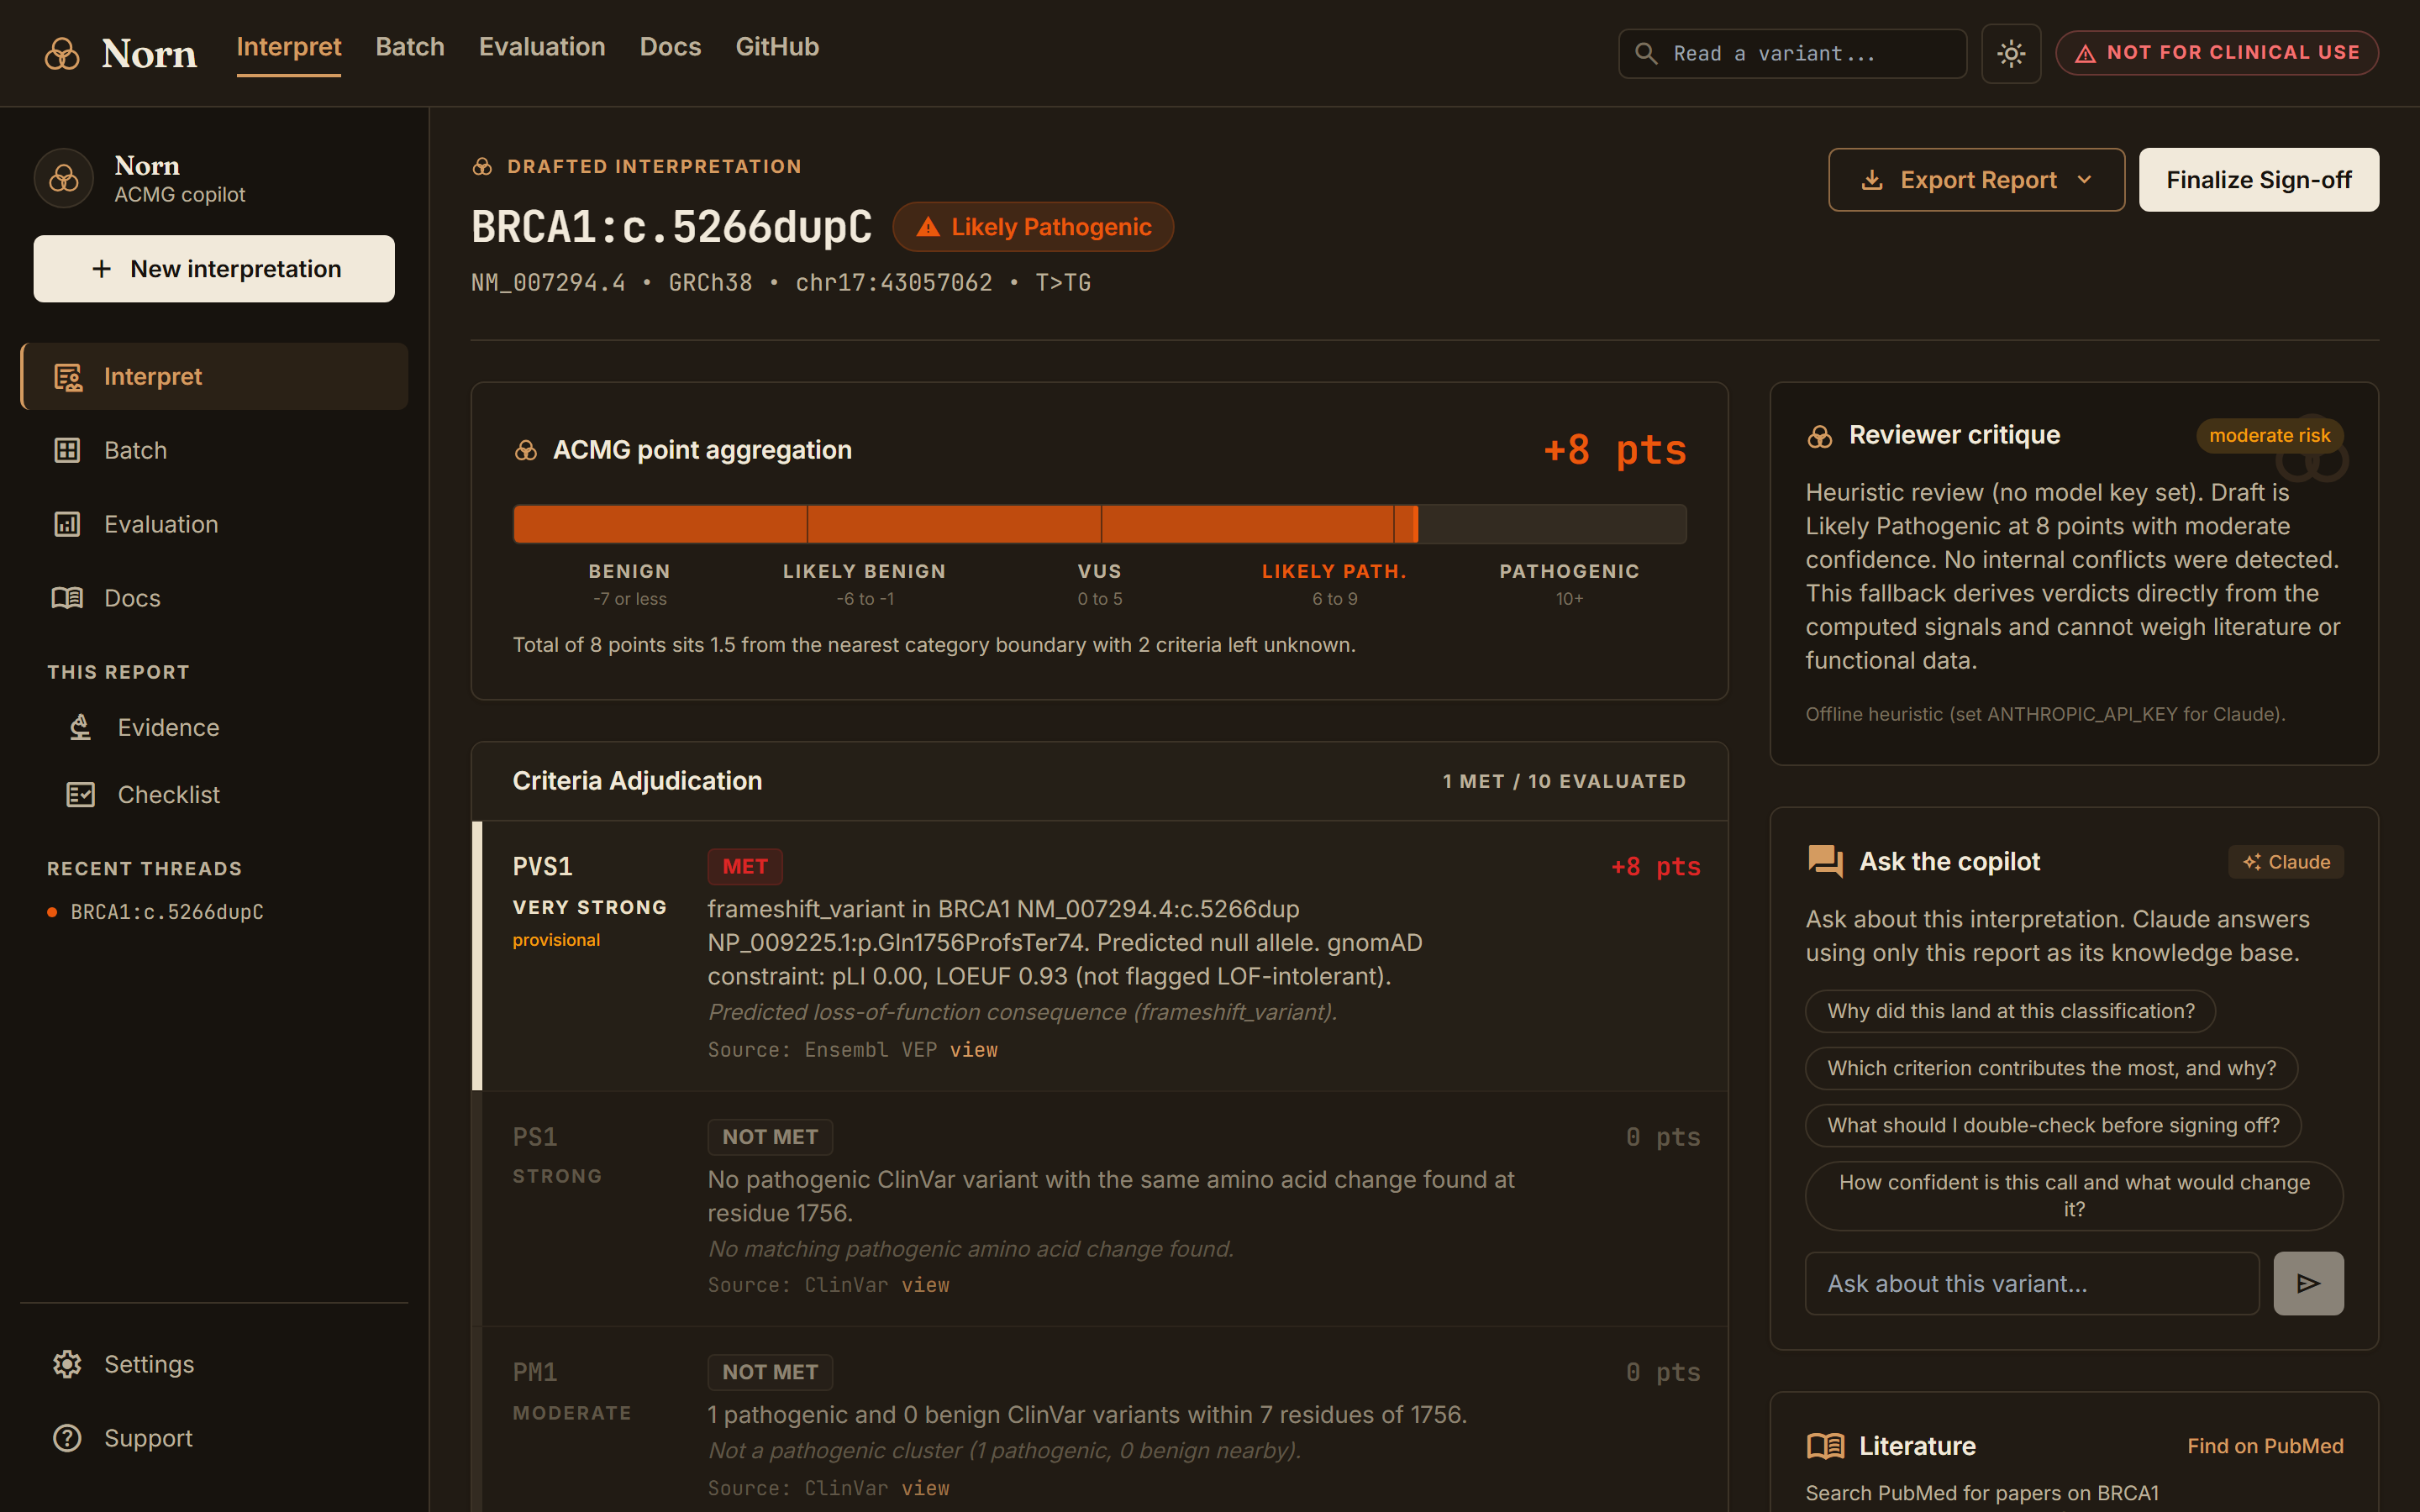
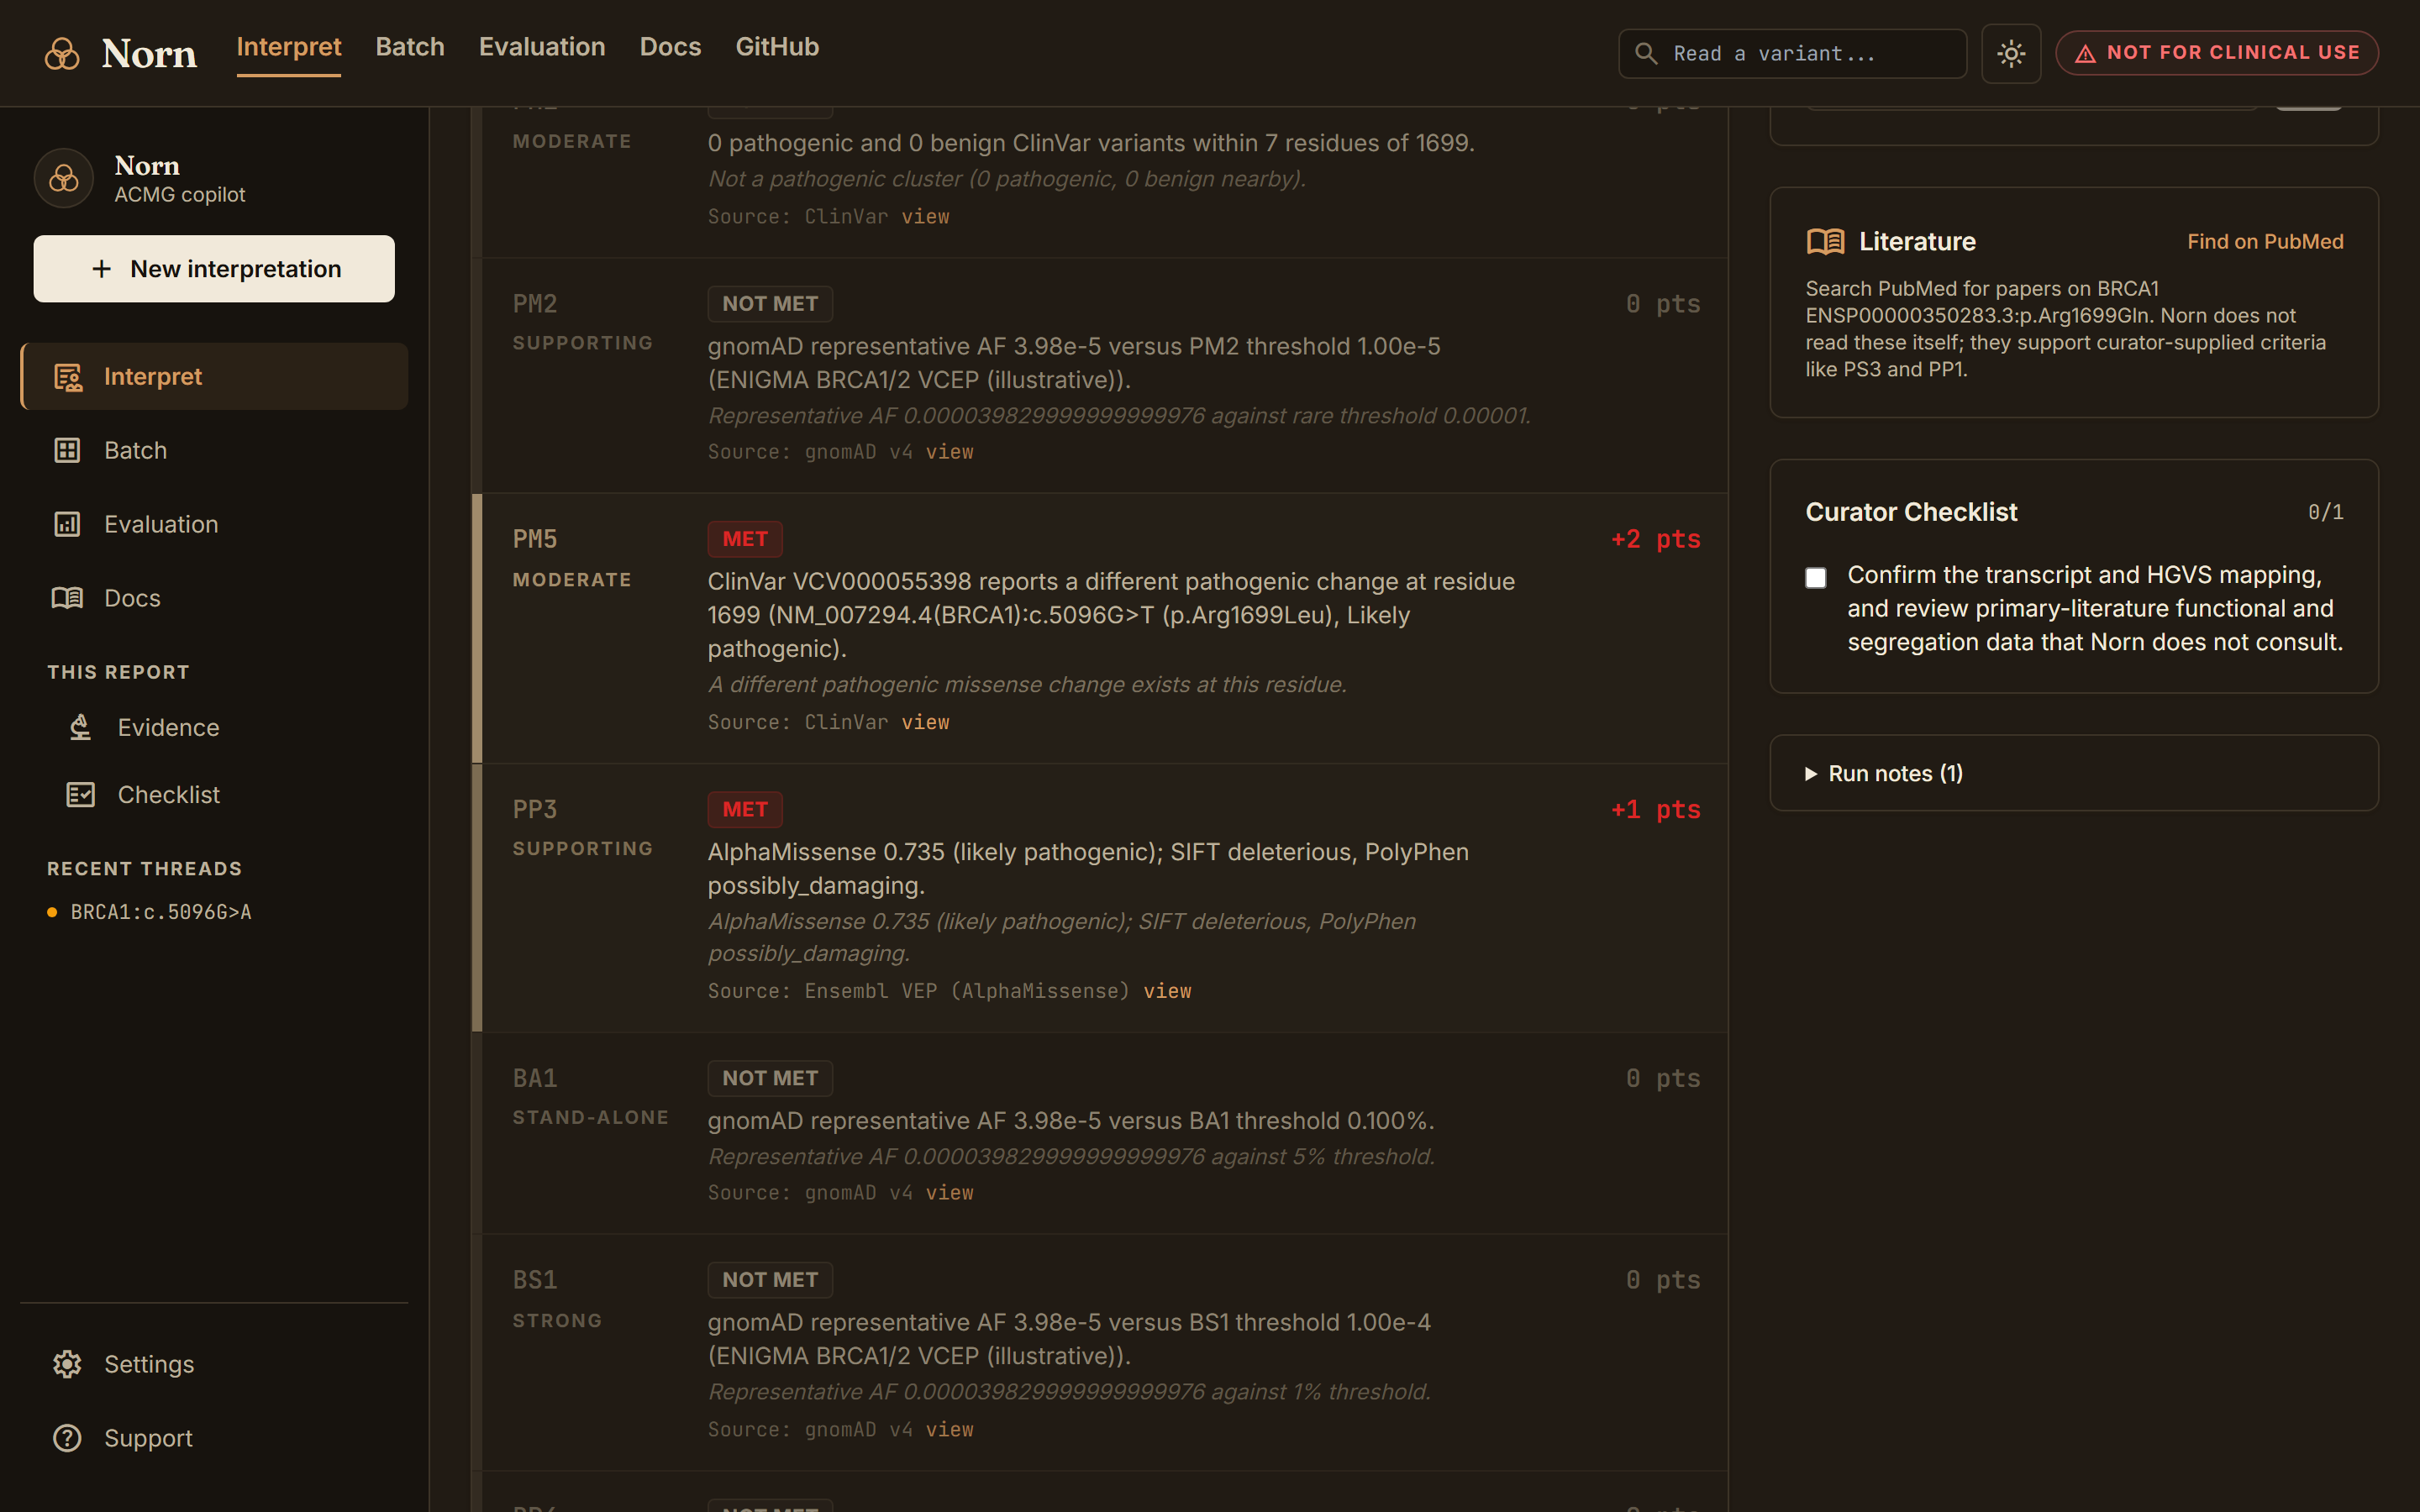
docs: regenerate ui-dashboard.png to show AlphaMissense PP3 and faf95
The active README dashboard screenshot now uses the VUS example
(BRCA1:c.5096G>A), framed on the criteria list so the new evidence is visible in
context: PP3 met on AlphaMissense 0.735, PM5 met on the pathogenic neighbor, and
PM2/BS1 shown against the gnomAD faf95 filtering AF (BS1 correctly not met at
3.98e-5). Same 2880x1800 dark capture. Archived shots under docs/archive/ are
left as-is; alt text updated to match.

diff --git a/README.md b/README.md
@@ -10,7 +10,7 @@ Vignesh Nagarajan was selected as 1 of 500 builders (about half of them PhDs, po
 <p align="center">
   <img src="docs/ui-landing.png" width="49%" alt="Norn landing page: read the evidence, draft the verdict" />
   &nbsp;
-  <img src="docs/ui-dashboard.png" width="49%" alt="Norn interpretation dashboard with ACMG point aggregation and criteria" />
+  <img src="docs/ui-dashboard.png" width="49%" alt="Norn criteria adjudication: PP3 met on AlphaMissense, with gnomAD faf95 filtering AF against the frequency criteria" />
 </p>
 <p align="center">
   <img src="docs/ui-landing-drafted.png" width="49%" alt="Norn landing: a drafted interpretation, sourced and yours to confirm" />